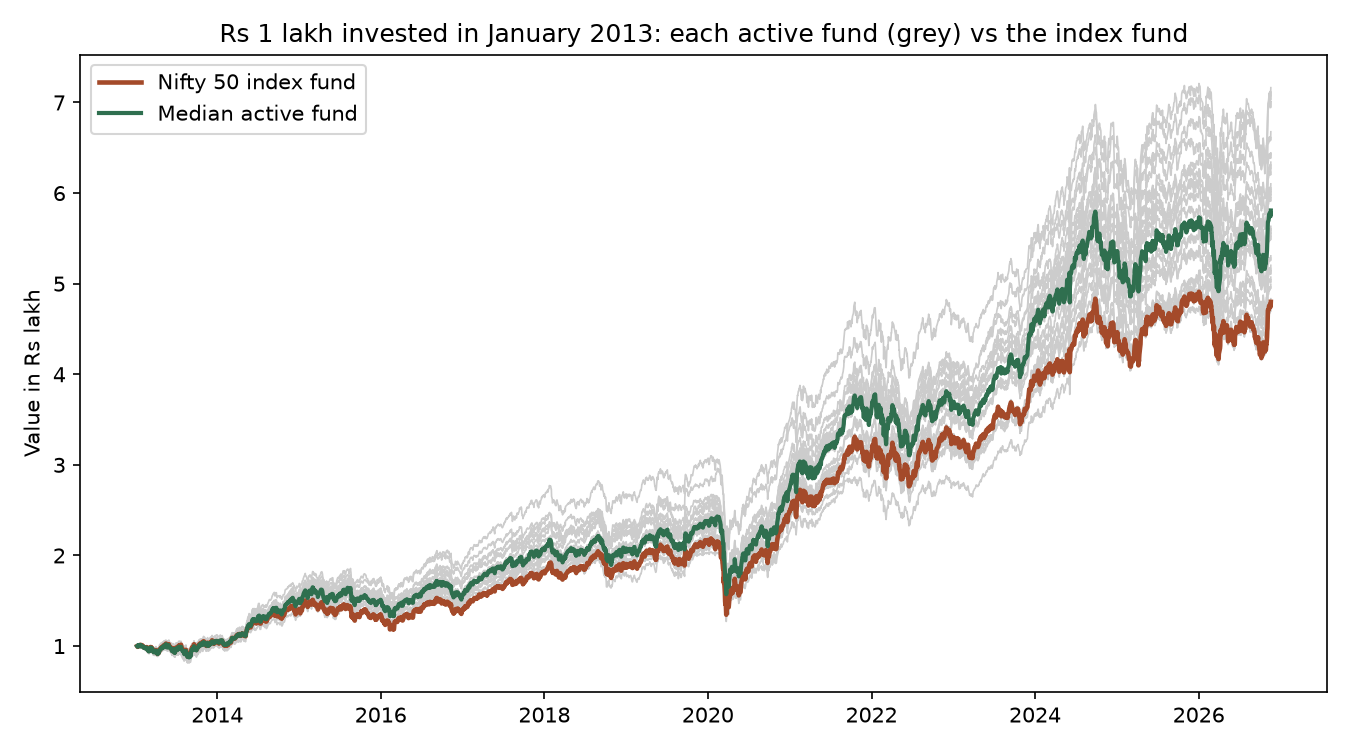
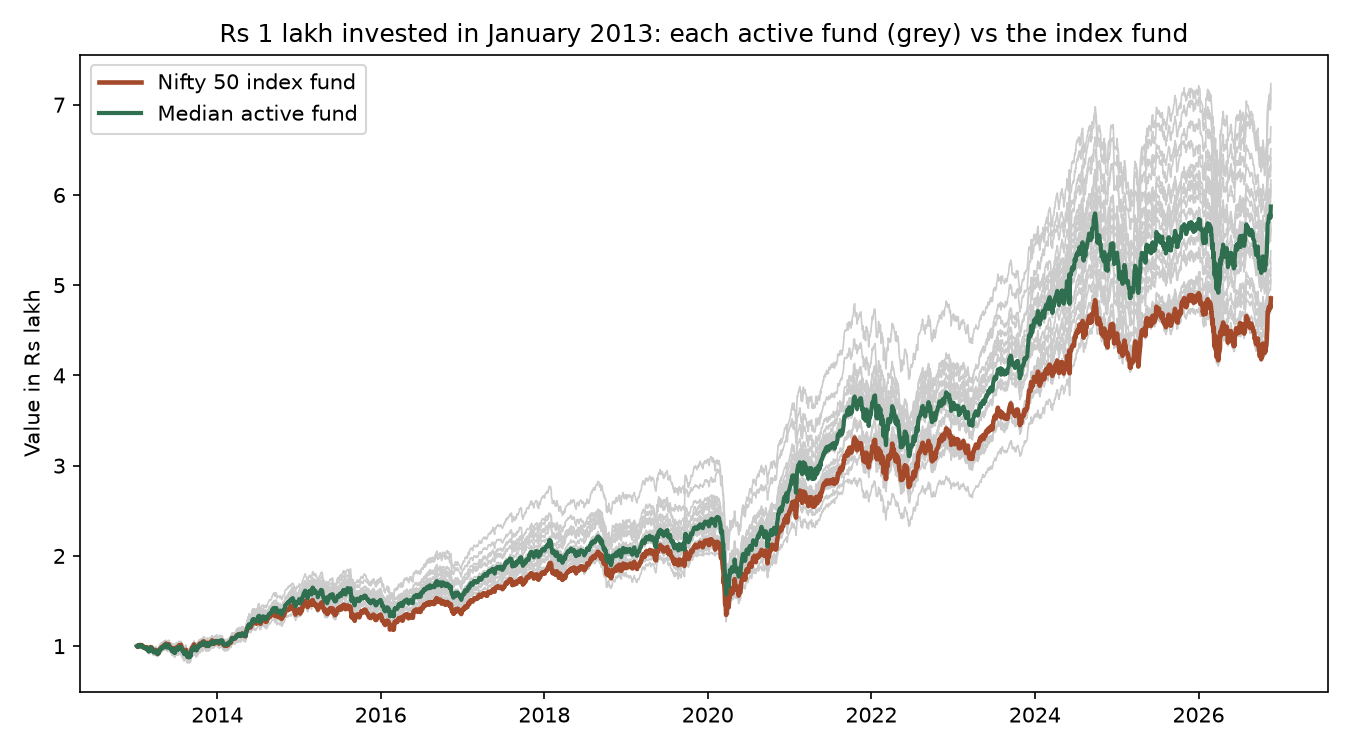
Data refresh: NAVs to 2026-11-23

diff --git a/README.md b/README.md
@@ -5,7 +5,7 @@
 **Short answer:** Over 2013–2026, yes: 19 of 20 surviving active large-cap funds beat the UTI Nifty 50 Index Fund. But it is **streaky**, and the full-period number flatters active funds because of **survivorship bias**. Active funds won almost every 3-year window up to 2018, then most of them *lost* to the index from 2019 to 2021, and they have been winning again since 2024.
 
 <!-- latest -->
-**Latest data: 19 Nov 2026.** Over 13.9 years, the Nifty 50 index fund returned 11.98% a year; 19 of 20 surviving active funds beat it. Right now, 95% of active funds are ahead of the index over the past 3 years.
+**Latest data: 20 Nov 2026.** Over 13.9 years, the Nifty 50 index fund returned 12.07% a year; 19 of 20 surviving active funds beat it. Right now, 100% of active funds are ahead of the index over the past 3 years.
 <!-- /latest -->
 
 ## Data
